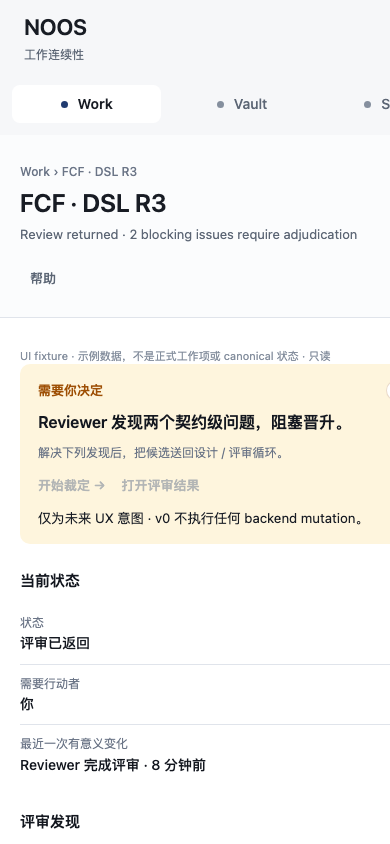
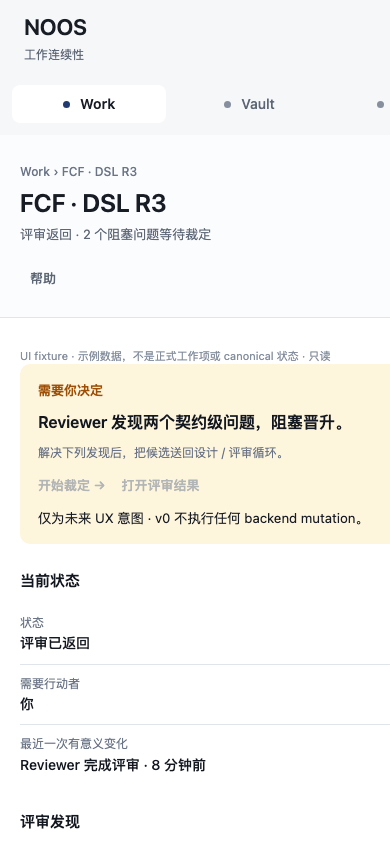
fix(hub): close remaining Designer round-2 items — locale-complete metadata, redraw-safe bindings
1. Section metadata moves into the locale copy source: main.ts title/
   summary/help label now derive from ui/copy.ts sections (zh-CN default,
   en preserved), closing the residual mixed-language surface flagged as
   Codex P1; the System unhealthy count ("{n} 个连接需要处理") also goes
   through copy as a "{n}" template. Plane names Work / Vault / System /
   Harness Inspector stay stable terms per the review.
2. Redraw-safe content bindings: new ui/content-actions.ts exports a
   single bindContentActions binder (data-run / refresh / check-update)
   used by BOTH renderCurrentSection and the async loadConfig redraw, so
   the System Refresh button no longer loses its handler after config
   loads. JSDOM regression test covers bind → innerHTML redraw → rebind.

hubLocale stays zh-CN; no IA, fixture boundary, backend or bridge changes.

diff --git a/apps/noos-hub/src/main.ts b/apps/noos-hub/src/main.ts
@@ -17,6 +17,7 @@ import { sleepRecoveryDisplay } from "./status";
 import "./styles.css";
 import type { HubHealth, SleepRecoveryStatus, UpdateCheckMode, UpdateStatus } from "./types";
 import { renderUpdateBannerHtml, renderUpdateDialogHtml } from "./update/render";
+import { bindContentActions } from "./ui/content-actions";
 import { copy as c } from "./ui/copy";
 import { escapeHtml } from "./ui/html";
 import { setVaultFileActionDataRuns } from "./vault-file-actions";
@@ -30,12 +31,12 @@ interface SectionMeta {
 }
 
 const sectionMeta: Record<SectionId, SectionMeta> = {
-  work: { id: "work", label: "Work", title: "Work", summary: "Pick up where NOOS needs you, or see what is moving." },
-  "work-detail": { id: "work-detail", label: "Work detail", title: "FCF · DSL R3", summary: "Review returned · 2 blocking issues require adjudication" },
-  vault: { id: "vault", label: "Vault", title: "Vault", summary: "收进来、放稳、交出去。" },
-  harness: { id: "harness", label: "Harness", title: "Harness Inspector", summary: "Advanced runtime diagnostic surface · fixture data." },
-  system: { id: "system", label: "System", title: "System", summary: "Connections, configuration and diagnostics." },
-  help: { id: "help", label: "帮助", title: "NOOS Hub 帮助", summary: "快速理解 Handoff、Crystal、Vault、连接器和本机同步边界。" }
+  work: { id: "work", label: "Work", title: c.sections.work.title, summary: c.sections.work.summary },
+  "work-detail": { id: "work-detail", label: "Work detail", title: c.sections.workDetail.title, summary: c.sections.workDetail.summary },
+  vault: { id: "vault", label: "Vault", title: c.sections.vault.title, summary: c.sections.vault.summary },
+  harness: { id: "harness", label: "Harness", title: c.sections.harness.title, summary: c.sections.harness.summary },
+  system: { id: "system", label: "System", title: c.sections.system.title, summary: c.sections.system.summary },
+  help: { id: "help", label: c.sections.help.label, title: c.sections.help.title, summary: c.sections.help.summary }
 };
 
 const navItems: SectionMeta[] = [sectionMeta.work, sectionMeta.vault, sectionMeta.system];
@@ -101,7 +102,7 @@ function renderShell(): void {
           <p class="topbar-summary" id="section-summary">${escapeHtml(shellItem.summary)}</p>
         </div>
         <div class="topbar-actions">
-          <button type="button" data-section="help" class="topbar-link">帮助</button>
+          <button type="button" data-section="help" class="topbar-link">${escapeHtml(c.sections.help.label)}</button>
         </div>
       </header>
       <section class="update-banner" id="update-banner" hidden></section>
@@ -573,18 +574,17 @@ function renderCurrentSection(): void {
     { id: "crystals", files: currentHealth.recent_files.crystals }
   ]);
   bindSectionButtons(content);
-
-  content.querySelectorAll<HTMLButtonElement>("[data-run]").forEach((button) => {
-    button.addEventListener("click", (event) => {
-      void runAction(button.dataset.run ?? "", event.currentTarget as HTMLButtonElement);
-    });
-  });
-  content.querySelectorAll<HTMLButtonElement>('[data-action="refresh"]').forEach((button) => {
-    button.addEventListener("click", () => {
+  bindContentActions(content, {
+    run: (action, sourceButton) => {
+      void runAction(action, sourceButton);
+    },
+    refresh: () => {
       void loadHealth({ force: true });
-    });
+    },
+    checkUpdate: () => {
+      void checkForHubUpdate({ mode: "manual" });
+    }
   });
-  bindContentActionButtons(content);
 
   if (activeSection === "system") {
     bindConfigEditEvents(content);
@@ -861,8 +861,17 @@ async function loadConfig(): Promise<void> {
   if (activeSection === "system") {
     content.innerHTML = renderSystem(currentHealth, currentConfig);
     bindConfigEditEvents(content);
-    bindRunButtons(content);
-    bindContentActionButtons(content);
+    bindContentActions(content, {
+      run: (action, sourceButton) => {
+        void runAction(action, sourceButton);
+      },
+      refresh: () => {
+        void loadHealth({ force: true });
+      },
+      checkUpdate: () => {
+        void checkForHubUpdate({ mode: "manual" });
+      }
+    });
     renderSleepRecoveryStatus();
   }
 }
@@ -934,22 +943,6 @@ async function saveConfigValue(key: string, value: string, row: HTMLElement): Pr
   } catch (error) {
     showToast(`保存失败：${String(error)}`, "error");
   }
-}
-
-function bindRunButtons(root: ParentNode): void {
-  root.querySelectorAll<HTMLButtonElement>("[data-run]").forEach((button) => {
-    button.addEventListener("click", (event) => {
-      void runAction(button.dataset.run ?? "", event.currentTarget as HTMLButtonElement);
-    });
-  });
-}
-
-function bindContentActionButtons(root: ParentNode): void {
-  root.querySelectorAll<HTMLButtonElement>('[data-action="check-update"]').forEach((button) => {
-    button.addEventListener("click", () => {
-      void checkForHubUpdate({ mode: "manual" });
-    });
-  });
 }
 
 function isTauriRuntime(): boolean {

diff --git a/tests/noos-hub-renderers.test.ts b/tests/noos-hub-renderers.test.ts
@@ -1,4 +1,5 @@
 import { describe, expect, it } from "vitest";
+import { JSDOM } from "jsdom";
 import { parseSectionId, navSectionFor } from "../apps/noos-hub/src/routes";
 import { renderConfig } from "../apps/noos-hub/src/pages/config";
 import { renderHelp } from "../apps/noos-hub/src/pages/help";
@@ -6,8 +7,43 @@ import { renderLogs } from "../apps/noos-hub/src/pages/logs";
 import { renderSystem } from "../apps/noos-hub/src/pages/system";
 import { renderVault } from "../apps/noos-hub/src/pages/vault";
 import { renderWorkDetail, renderWorkOverview } from "../apps/noos-hub/src/pages/work";
+import { bindContentActions } from "../apps/noos-hub/src/ui/content-actions";
 import { copyLocales } from "../apps/noos-hub/src/ui/copy";
 import type { AdapterHealth, HubHealth } from "../apps/noos-hub/src/types";
+
+describe("NOOS Hub content action binding", () => {
+  it("restores refresh/run/check-update handlers after an innerHTML redraw", () => {
+    const dom = new JSDOM(`
+      <div id="content">
+        <button type="button" data-run="doctor">doctor</button>
+        <button type="button" data-action="refresh">refresh</button>
+        <button type="button" data-action="check-update">check</button>
+      </div>
+    `);
+    const calls: string[] = [];
+    const handlers = {
+      run: (action: string) => calls.push(`run:${action}`),
+      refresh: () => calls.push("refresh"),
+      checkUpdate: () => calls.push("check-update")
+    };
+    const content = dom.window.document.querySelector("#content")!;
+    const markup = content.innerHTML;
+
+    bindContentActions(content, handlers);
+    (content.querySelector('[data-action="refresh"]') as HTMLButtonElement).click();
+    expect(calls).toEqual(["refresh"]);
+
+    // The async config redraw replaces innerHTML, dropping all listeners.
+    // Re-running the same binder must bring every hook back — this is the
+    // regression guard for the dead System Refresh button (PR #34).
+    content.innerHTML = markup;
+    bindContentActions(content, handlers);
+    (content.querySelector('[data-action="refresh"]') as HTMLButtonElement).click();
+    (content.querySelector("[data-run]") as HTMLButtonElement).click();
+    (content.querySelector('[data-action="check-update"]') as HTMLButtonElement).click();
+    expect(calls).toEqual(["refresh", "refresh", "run:doctor", "check-update"]);
+  });
+});
 
 describe("NOOS Hub hash routing", () => {
   it("normalizes legacy deep links onto the new primary sections", () => {

diff --git a/apps/noos-hub/src/ui/copy.ts b/apps/noos-hub/src/ui/copy.ts
@@ -16,6 +16,14 @@ const en = {
     brandSubtitle: "Work continuity",
     versionNote: "v0.2 exploration"
   },
+  sections: {
+    work: { title: "Work", summary: "Pick up where NOOS needs you, or see what is moving." },
+    workDetail: { title: "FCF · DSL R3", summary: "Review returned · 2 blocking issues require adjudication" },
+    vault: { title: "Vault", summary: "收进来、放稳、交出去。" },
+    harness: { title: "Harness Inspector", summary: "Advanced runtime diagnostic surface · fixture data." },
+    system: { title: "System", summary: "Connections, configuration and diagnostics." },
+    help: { label: "Help", title: "NOOS Hub Help", summary: "Handoff, Crystal, Vault, connectors and local sync boundaries at a glance." }
+  },
   work: {
     fixtureNote: "UI fixture · Illustrative examples, not live work or canonical state · Read-only",
     needsAttention: "Needs your attention",
@@ -118,6 +126,7 @@ const en = {
   },
   system: {
     summaryHealthy: "Everything needed for normal work is available.",
+    summaryUnhealthy: "{n} connections need attention",
     summarySub: "System details stay out of the way unless they affect work.",
     operational: "Operational",
     partial: "Partial",
@@ -146,6 +155,14 @@ const zhCN: typeof en = {
   shell: {
     brandSubtitle: "工作连续性",
     versionNote: "v0.2 探索"
+  },
+  sections: {
+    work: { title: "Work", summary: "在需要你的地方接续，或看看什么正在推进。" },
+    workDetail: { title: "FCF · DSL R3", summary: "评审返回 · 2 个阻塞问题等待裁定" },
+    vault: { title: "Vault", summary: "收进来、放稳、交出去。" },
+    harness: { title: "Harness Inspector", summary: "高级运行时诊断面 · fixture 数据。" },
+    system: { title: "System", summary: "连接、配置与诊断。" },
+    help: { label: "帮助", title: "NOOS Hub 帮助", summary: "快速理解 Handoff、Crystal、Vault、连接器和本机同步边界。" }
   },
   work: {
     fixtureNote: "UI fixture · 示例数据，不是正式工作项或 canonical 状态 · 只读",
@@ -247,6 +264,7 @@ const zhCN: typeof en = {
   },
   system: {
     summaryHealthy: "正常工作所需的一切均可用。",
+    summaryUnhealthy: "{n} 个连接需要处理",
     summarySub: "系统细节保持安静，只在影响工作时出现。",
     operational: "运行正常",
     partial: "部分可用",

diff --git a/apps/noos-hub/src/ui/content-actions.ts b/apps/noos-hub/src/ui/content-actions.ts
@@ -1,0 +1,33 @@
+export interface ContentActionHandlers {
+  run: (action: string, sourceButton: HTMLButtonElement) => void;
+  refresh: () => void;
+  checkUpdate: () => void;
+}
+
+/**
+ * Single binder for every action hook that can appear inside #content
+ * (data-run actions, state refresh, update checks).
+ *
+ * Both the initial section render and the async config redraw replace
+ * #content.innerHTML, which drops all listeners — every redraw path must go
+ * through this binder or buttons (e.g. System Refresh) go dead.
+ */
+export function bindContentActions(root: ParentNode, handlers: ContentActionHandlers): void {
+  root.querySelectorAll<HTMLButtonElement>("[data-run]").forEach((button) => {
+    button.addEventListener("click", () => {
+      handlers.run(button.dataset.run ?? "", button);
+    });
+  });
+
+  root.querySelectorAll<HTMLButtonElement>('[data-action="refresh"]').forEach((button) => {
+    button.addEventListener("click", () => {
+      handlers.refresh();
+    });
+  });
+
+  root.querySelectorAll<HTMLButtonElement>('[data-action="check-update"]').forEach((button) => {
+    button.addEventListener("click", () => {
+      handlers.checkUpdate();
+    });
+  });
+}

diff --git a/apps/noos-hub/src/pages/system.ts b/apps/noos-hub/src/pages/system.ts
@@ -22,7 +22,9 @@ export function renderSystem(health: HubHealth, config: ConfigData | null): stri
   ).length;
   const healthy = broken === 0 && incomplete === 0;
 
-  const summaryTitle = healthy ? c.system.summaryHealthy : `${broken + incomplete} 个连接需要处理`;
+  const summaryTitle = healthy
+    ? c.system.summaryHealthy
+    : c.system.summaryUnhealthy.replace("{n}", String(broken + incomplete));
   const summaryPill = healthy
     ? `<span class="pill pill--ready">${e(c.system.operational)}</span>`
     : `<span class="pill pill--${broken > 0 ? "error" : "partial"}">${e(broken > 0 ? c.system.needsAttention : c.system.partial)}</span>`;
